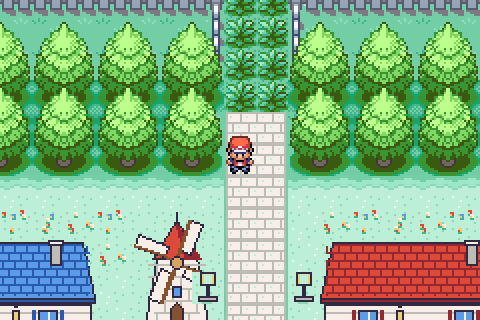
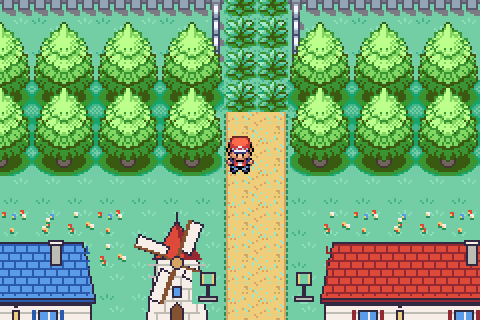
Topaze: Grenalux v2 restyle (game grass, dirt paths)
Claude-Session: https://claude.ai/code/session_01GQJ6VBZbBVtTh4mURN6n2L

Changed region(s): [[0.0, 0.3438, 1.0, 1.0]]

diff --git a/docs/topaze/grenalux_original.py b/docs/topaze/grenalux_original.py
@@ -13,8 +13,8 @@ W_, H_ = orig.w, orig.h
 
 # ------------------------------------------------------------------ palette 7 (16 couleurs)
 PAL = [(255, 0, 255),                    # 0 transparent
-       (189, 238, 213), (139, 213, 189), # 1 pelouse, 2 pelouse (tache)
-       (115, 205, 164), (65, 180, 139), (30, 120, 90),      # 3-5 verts
+       (115, 205, 164), (139, 222, 189), # 1 herbe, 2 herbe (tache)
+       (156, 230, 197), (44, 140, 92), (22, 90, 64),        # 3 reflet, 4-5 feuillage
        (240, 236, 228), (190, 184, 180), (48, 44, 66),      # 6 pierre claire, 7 pierre, 8 contour
        (214, 160, 96), (130, 82, 52), (232, 204, 120),      # 9 bois clair, 10 bois sombre, 11 chaume / sable
        (88, 152, 224), (44, 92, 168),                       # 12 bleu, 13 bleu fonce (toit, eau)
@@ -22,9 +22,9 @@ PAL = [(255, 0, 255),                    # 0 transparent
 def newimg(w, h, fill=1):
     im = Image.new('P', (w, h), fill); im.putpalette([c for p in PAL for c in p]); return im
 GRASS_PAT = []
-_g = orig.metatile_img(662).convert('RGB')
+_g = orig.metatile_img(1).convert('RGB')
 for y in range(16):
-    GRASS_PAT.append([1 if _g.getpixel((x, y)) == (189, 238, 213) else 2 for x in range(16)])
+    GRASS_PAT.append([1 if _g.getpixel((x, y)) == (115, 205, 164) else 2 for x in range(16)])
 def lawn(w, h):
     im = newimg(w, h); px = im.load()
     for y in range(h):
@@ -263,28 +263,21 @@ def sign_board(post=True):
 
 # ----- cobble (autotile par voisinage)
 def cobble_block(pathset, cx, cy):
-    """cx, cy : coord. de bloc ; pathset : ensemble des blocs 'chemin' (pour les bords)."""
-    im = newimg(16, 16, 6); d = ImageDraw.Draw(im)
-    # pavage regulier (periodique)
-    for row in range(3):
-        y0 = row * 5 + (1 if row else 0)
-        d.line([(0, row * 5 + 0), (15, row * 5 + 0)], fill=7)
-        off = 4 if row % 2 else 0
-        for x in range(off, 16, 8): d.line([(x, row * 5), (x, row * 5 + 4)], fill=7)
-        for x in range(off + 1, 16, 8): d.point((x + 2, row * 5 + 2), fill=1)
-    d.line([(0, 15), (15, 15)], fill=7)
+    """Chemin de terre battue (bords herbeux). pathset : blocs 'chemin'."""
+    im = newimg(16, 16, 11); px = im.load()
+    for y in range(16):
+        for x in range(16):
+            h = (x * 7 + y * 13 + (x * y) % 5) % 23
+            if h in (0, 9): px[x, y] = 9
+            elif h in (4, 15): px[x, y] = 3
     N = (cx, cy - 1) in pathset; S = (cx, cy + 1) in pathset; E = (cx + 1, cy) in pathset; Wn = (cx - 1, cy) in pathset
-    px = im.load()
-    def lip(x, y, depth):  # bord : herbe + ombre
-        px[x, y] = 3 if depth == 0 else 7 if depth == 1 else px[x, y]
     for i in range(16):
-        if not N:  px[i, 0] = 3; px[i, 1] = 7 if i % 2 else 7
-        if not S:  px[i, 15] = 3; px[i, 14] = 7
-        if not Wn: px[0, i] = 3; px[1, i] = 7
-        if not E:  px[15, i] = 3; px[14, i] = 7
-    # coins arrondis
-    for (cond, pts) in (((not N) and (not Wn), [(0, 0), (1, 0), (0, 1)]), ((not N) and (not E), [(15, 0), (14, 0), (15, 1)]),
-                        ((not S) and (not Wn), [(0, 15), (1, 15), (0, 14)]), ((not S) and (not E), [(15, 15), (14, 15), (15, 14)])):
+        if not N:  px[i, 0] = 4 if i % 3 else 1; px[i, 1] = 9
+        if not S:  px[i, 15] = 4 if i % 3 else 1; px[i, 14] = 9
+        if not Wn: px[0, i] = 4 if i % 3 else 1; px[1, i] = 9
+        if not E:  px[15, i] = 4 if i % 3 else 1; px[14, i] = 9
+    for (cond, pts) in (((not N) and (not Wn), [(0, 0), (1, 0), (0, 1), (1, 1)]), ((not N) and (not E), [(15, 0), (14, 0), (15, 1), (14, 1)]),
+                        ((not S) and (not Wn), [(0, 15), (1, 15), (0, 14), (1, 14)]), ((not S) and (not E), [(15, 15), (14, 15), (15, 14), (14, 14)])):
         if cond:
             for (x, y) in pts: px[x, y] = 1
     return im
@@ -320,7 +313,7 @@ def bridge_canvas(base):
 
 # ------------------------------------------------------------------ plan de la carte
 G = {}                   # (x,y) -> (metatile, collision)  collision = 1 -> infranchissable
-LAWN = 662
+LAWN = 1
 TOUCH = set()
 def put(x, y, m, col=0): G[(x, y)] = (m, col); TOUCH.add((x, y))
 for y in range(H_):
@@ -330,8 +323,9 @@ for y in range(H_):
 # zone interieure a repeindre : x 3..20, y 3..16
 for y in range(3, 17):
     for x in range(3, 21): put(x, y, LAWN)
-for y in range(3, 17):               # colonnes d'ombre laterales
-    put(2, y, 686); put(21, y, 663)
+for y in range(2, 17):               # colonnes laterales : meme herbe que le reste
+    put(2, y, 1); put(21, y, 1)
+for x in range(3, 21): put(x, 2, 1)
 
 PATH = set()
 for y in range(0, 9): PATH |= {(12, y), (13, y)}
@@ -414,6 +408,7 @@ put(14, 16, meta(fence('E')), 1)
 put(20, 16, meta(garden(2)), 0)
 # haies sud-ouest
 for x in range(3, 8): put(x, 16, meta(flowers(80 + x)), 0)
+for x in range(11, 21): put(x, 17, 1)
 # enseignes
 put(11, 7, 2, 1)        # panneau de ville (bloc d'origine)
 put(8, 7, 685, 1)       # boite aux lettres (maison du joueur)
